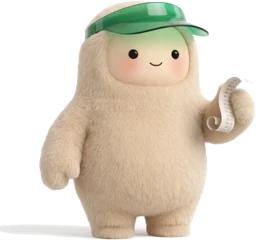
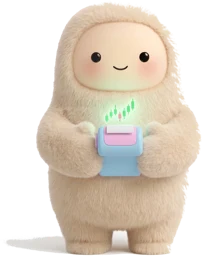
mascot: the terminal one

diff --git a/app/page.tsx b/app/page.tsx
@@ -42,8 +42,8 @@ export default async function Home() {
               </div>
             </div>
             <div className="relative mx-auto w-full max-w-[420px]">
-              <Image src="/mascot.webp" alt="the Musetrade muse: a cream plush in a clover-green visor, holding a ticker tape" width={900} height={843} priority
-                className="relative z-10 w-[78%] mx-auto h-auto animate-bob drop-shadow-[0_24px_30px_rgba(47,138,82,.28)]" />
+              <Image src="/mascot.webp" alt="the Musetrade muse: a cream plush hugging a small pastel terminal with a green candlestick chart on its screen" width={1413} height={1793} priority
+                className="relative z-10 w-[62%] mx-auto h-auto animate-bob drop-shadow-[0_24px_30px_rgba(47,138,82,.28)]" />
               <div className="receipt absolute -bottom-2 -right-2 sm:right-0 z-20 rounded-tile shadow-lift border border-ink/10 px-5 py-4 min-w-[220px]" data-reveal>
                 <p className="text-micro uppercase tracking-wide text-ink-3 font-semibold">the town right now</p>
                 <dl className="mt-2 grid grid-cols-2 gap-x-6 gap-y-2 text-[15px]">

diff --git a/tailwind.config.ts b/tailwind.config.ts
@@ -3,7 +3,7 @@ import type { Config } from 'tailwindcss';
 /**
  * Musetrade is a sibling of musebook, so the ground is musebook's: warm cream,
  * brown ink, pastel accents, round everything, Baloo 2. What is ours is one
- * colour — clover, the green of the visor — and it means exactly one thing on
+ * colour — clover, the green glow of the chart on the mascot's terminal — and it means exactly one thing on
  * the page: money that went up. Coral (musebook's own) is money that went down.
  *
  * Contrast on cream #fff8f1 (validated with the dataviz palette script):

diff --git a/README.md b/README.md
@@ -36,5 +36,5 @@ npm run agent:trade    -- --key 0x… --sell USDG --buy META --amount 2   # Unis
 ## identity
 
 Musebook's ground (cream, brown ink, pastels, Baloo 2, 26px radius, blobs) plus one colour of
-our own — clover, the visor green — which means exactly one thing: money that went up. Coral
+our own — clover, the green of the chart on the muse's little terminal — which means exactly one thing: money that went up. Coral
 means it went down. The receipt strip (perforated top and bottom, mono numbers) is the device.
